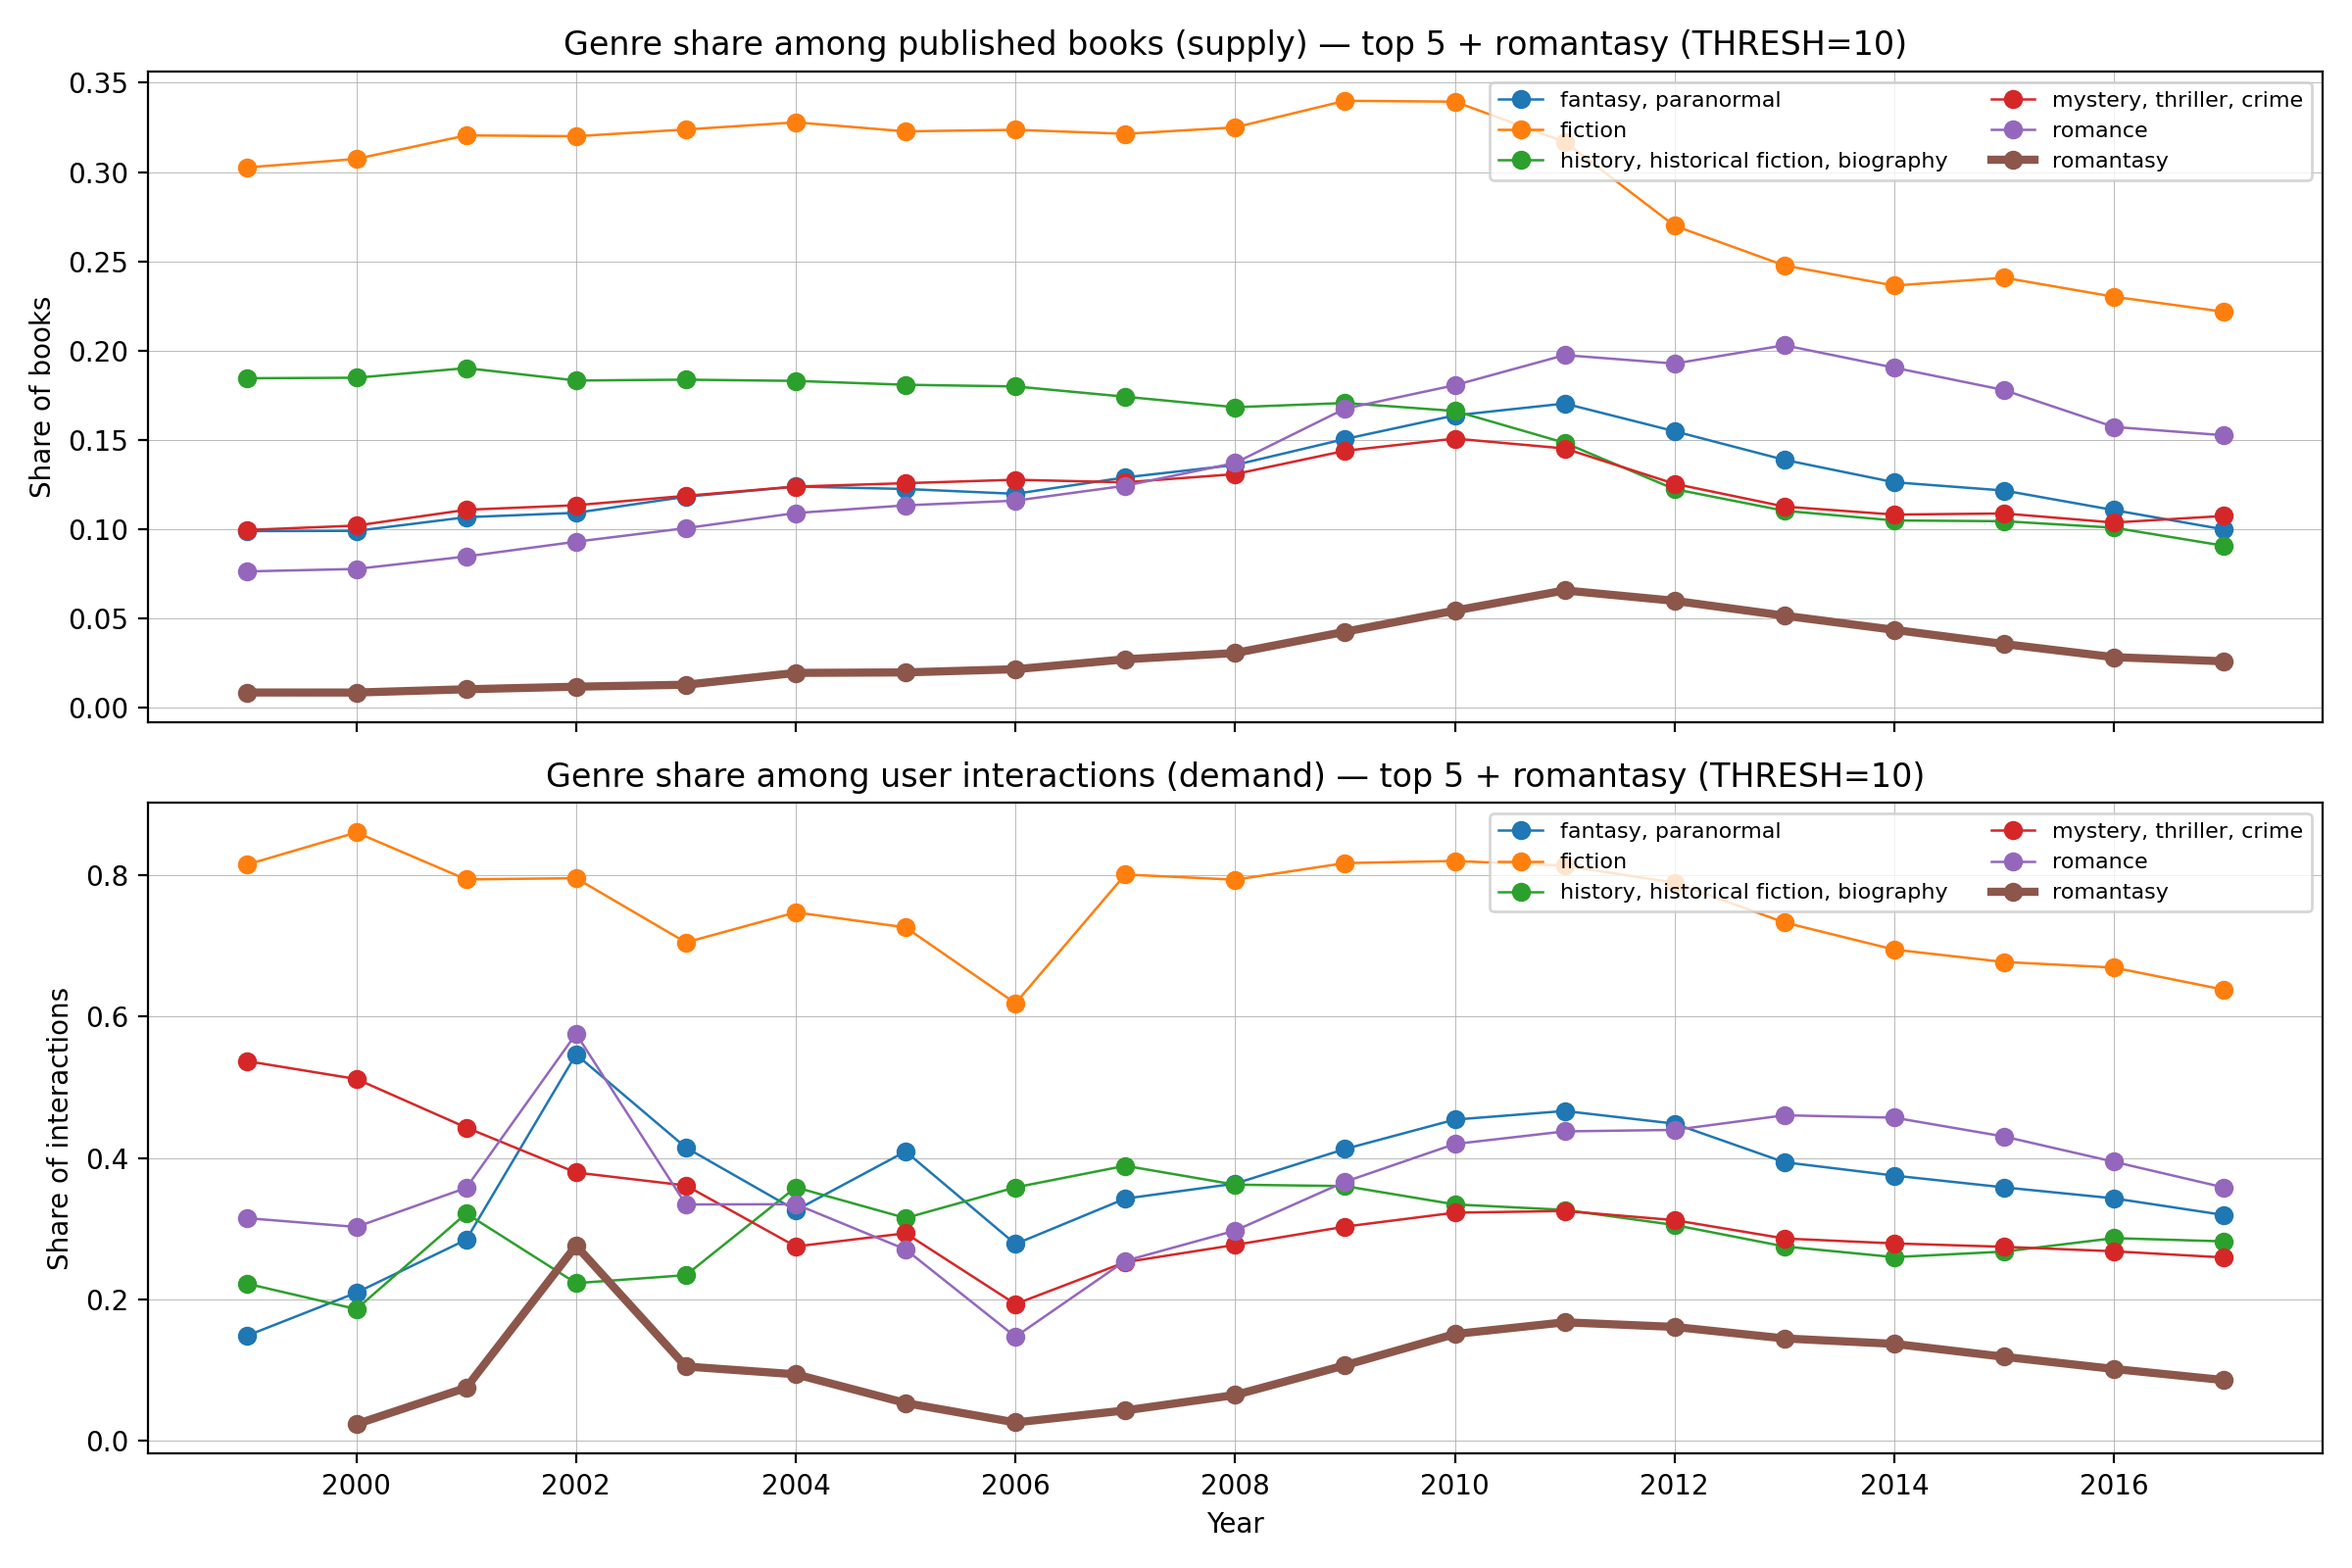
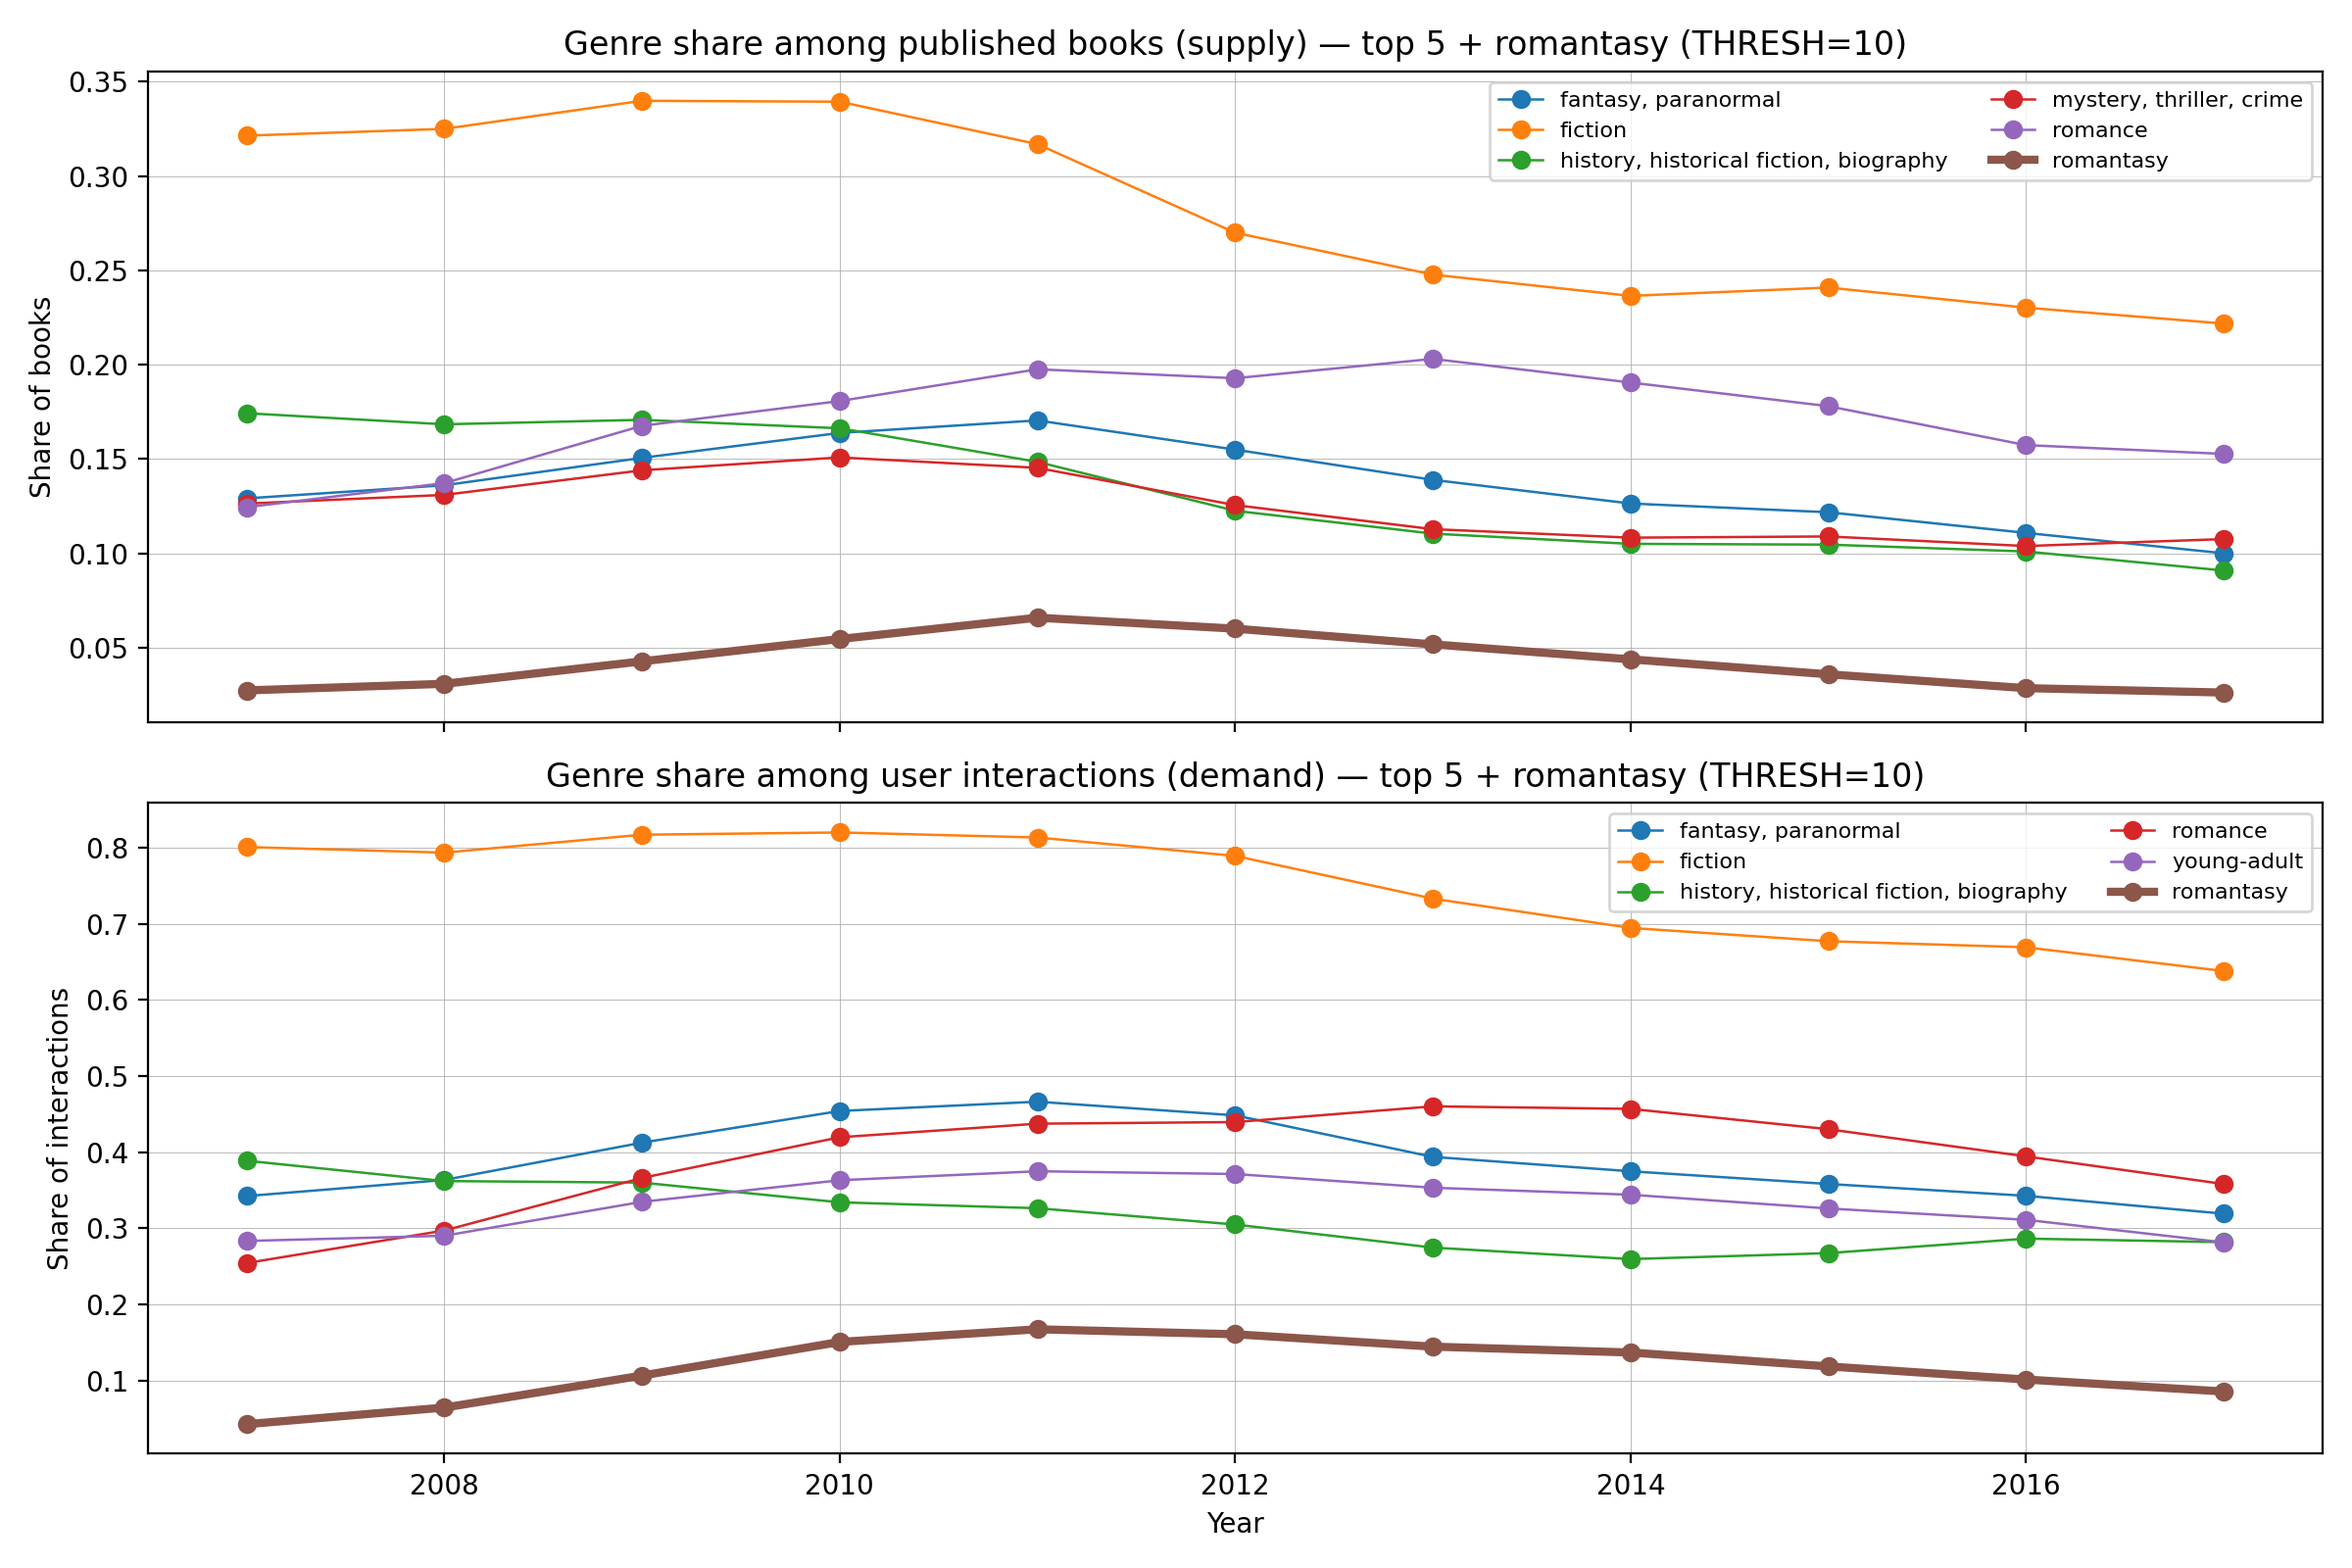
fix: adjust romantasy results to 2007+

diff --git a/rq3/results/plot_rq3_all_genres.py b/rq3/results/plot_rq3_all_genres.py
@@ -18,8 +18,8 @@ OUT_FILE = "rq3_genre_comparison.png"
 
 # Change these:
 K_TOP = 5              # plot top-K genres + romantasy
-MIN_YEAR = 1999         # crop (recommended: 1990 or 2000)
-MAX_YEAR = 2017         # interactions seem to stop at 2017 in your data
+MIN_YEAR = 2007         # crop 
+MAX_YEAR = 2017         
 
 HIGHLIGHT_GENRE = "romantasy"
 # ===========================================

diff --git a/rq3/results/plot_rq3_romantasy.py b/rq3/results/plot_rq3_romantasy.py
@@ -13,7 +13,7 @@ PUB_YEAR_PATH = "pub_year_trend_thresh_"
 INTERACTION_YEAR_PATH = "interaction_year_trend_thresh_"
 THRESH = 10
 
-MIN_PLOT_YEAR = 1995
+MIN_PLOT_YEAR = 2007
 MAX_PLOT_YEAR = 2017
 
 def find_single_csv(folder: str) -> str:
